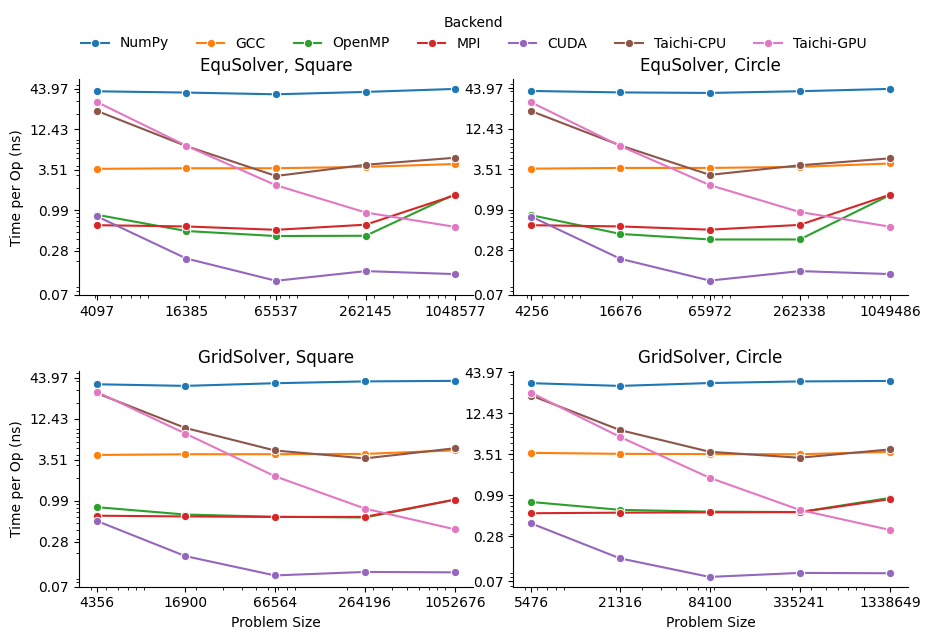
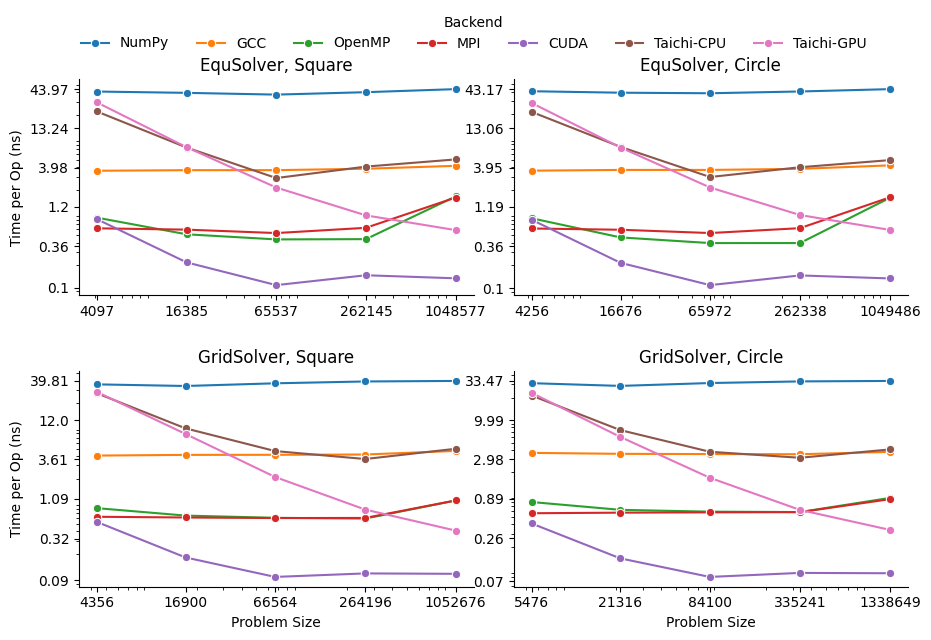
update plot

diff --git a/docs/image/plot.py b/docs/image/plot.py
@@ -1,6 +1,7 @@
 #!/usr/bin/env python3
 
 import math
+from typing import Tuple
 
 import numpy as np
 import pandas as pd
@@ -15,7 +16,7 @@ data = {
 }
 
 
-def parse_benchmark_table(raw: str) -> np.ndarray:
+def parse_benchmark_table(raw: str) -> Tuple[np.ndarray, int, int]:
   global data
   raw = raw.replace("# of vars", "N").strip().splitlines()
   head, raw = raw[0], raw[2:]
@@ -33,15 +34,17 @@ def parse_benchmark_table(raw: str) -> np.ndarray:
     result[i[0].strip()] = np.array(a)
   base = result["N"]
   del result["N"]
+  t = []
   for k, v in result.items():
     v = v / base / 5000 * 1e9
+    t += v.tolist()
     for n, i in zip(base, v):
       data["Problem Size"].append(n)
       data["Time per Op (ns)"].append(i)
       data["Backend"].append(k)
       data["Method"].append(method)
       data["Problem Type"].append(prob_type)
-  return base.astype(int)
+  return base.astype(int), min(t), max(t)
 
 
 def main() -> None:
@@ -51,9 +54,6 @@ def main() -> None:
   base = []
   for i in [1, 2, 4, 5]:
     base.append(parse_benchmark_table(raw[i]))
-  tmin, tmax = min(data["Time per Op (ns)"]), max(data["Time per Op (ns)"])
-  y = np.logspace(math.log10(tmin), math.log10(tmax), 6)
-  y = (y * 100).astype(int) / 100.
   data = pd.DataFrame(data)
   print(data)
   g = sns.FacetGrid(
@@ -72,6 +72,9 @@ def main() -> None:
   g.add_legend(bbox_to_anchor=(0.52, 1.02), ncol=7)
   axes = g.axes.flatten()
   for ax, b in zip(axes, base):
+    b, tmin, tmax = b
+    y = np.logspace(math.log10(tmin), math.log10(tmax), 6)
+    y = (y * 100).astype(int) / 100.
     ax.set(xscale="log", yscale="log")
     ax.set(xticks=b, yticks=y)
     ax.set(xticklabels=b, yticklabels=y)
